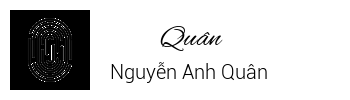
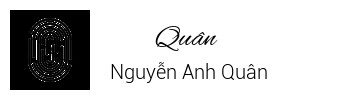
cập nhật

Changed region(s): [[0.4286, 0.24, 0.6571, 0.51], [0.1714, 0.66, 0.2, 0.69], [0.1429, 0.51, 0.1714, 0.54]]

diff --git a/signture_digital/a/main.py b/signture_digital/a/main.py
@@ -21,7 +21,7 @@ def create_signature_image():
   textSignature = "Quân"
   textFullName = "Nguyễn Anh Quân"
   denta = (len(textFullName) // 2) - (len(textSignature) // 2)
-  denta *= 10
+  denta *= 10-1
   
   pathFont = os.path.join(getPath(""), "font", "AlexBrush-Regular.ttf")
   font = ImageFont.truetype(pathFont, 30)
